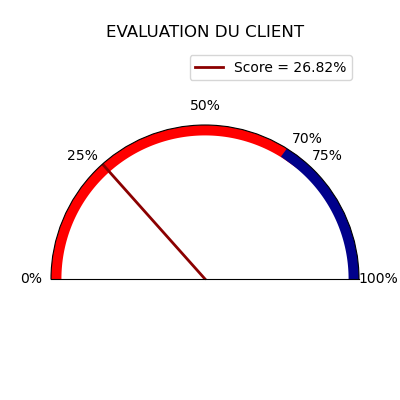
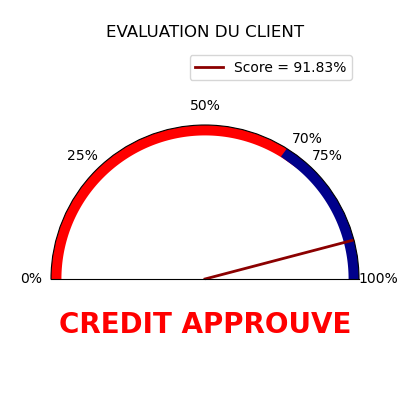
Evaluation client finie

diff --git a/templates/home.html b/templates/home.html
@@ -173,7 +173,6 @@
         </div>
         <div align="center " class="prediction-section">
             {% if prediction %}
-                <p>{{ prediction }}</p>
                 <img src="{{ url_for('static', filename='jauge_client.png') }}" alt="Client Score">
             {% else %}
                 <p>Entrez des données pour obtenir une prédiction.</p>

diff --git a/app.py b/app.py
@@ -98,12 +98,11 @@ def collect_and_save_data():
     # Faire une prédiction
     try:
         proba = model.predict_proba(data_df)[0][1]
-        prediction_result = "Probabilité : {:.2f}%".format(proba*100)
         draw_client(proba)
     except ValueError as e:
         prediction_result = "Erreur lors de la prédiction: {}".format(str(e))
     
-    return render_template('home.html', prediction=prediction_result)
+    return render_template('home.html', prediction=proba)
 
 
 def draw_client(accuracy_score):
@@ -141,6 +140,11 @@ def draw_client(accuracy_score):
     ax.set_ylim([0, 0.6])
     ax.set_xlim([0, np.pi])
     ax.set_title("EVALUATION DU CLIENT", va="bottom")
+
+     # Ajouter le message "CREDIT APPROUVE" ou "CREDIT REFUSE"
+    credit_message = "CREDIT APPROUVE" if accuracy_score >= 0.70 else "CREDIT REFUSE"
+    color = "red"
+    ax.text(0.5, 0.1, credit_message, color=color, ha="center", va="center", transform=ax.transAxes, fontsize=20, weight='bold')
 
     # Ajouter le score en tant que légende
     ax.legend([needle], [f'Score = {accuracy_score * 100:.2f}%'])
